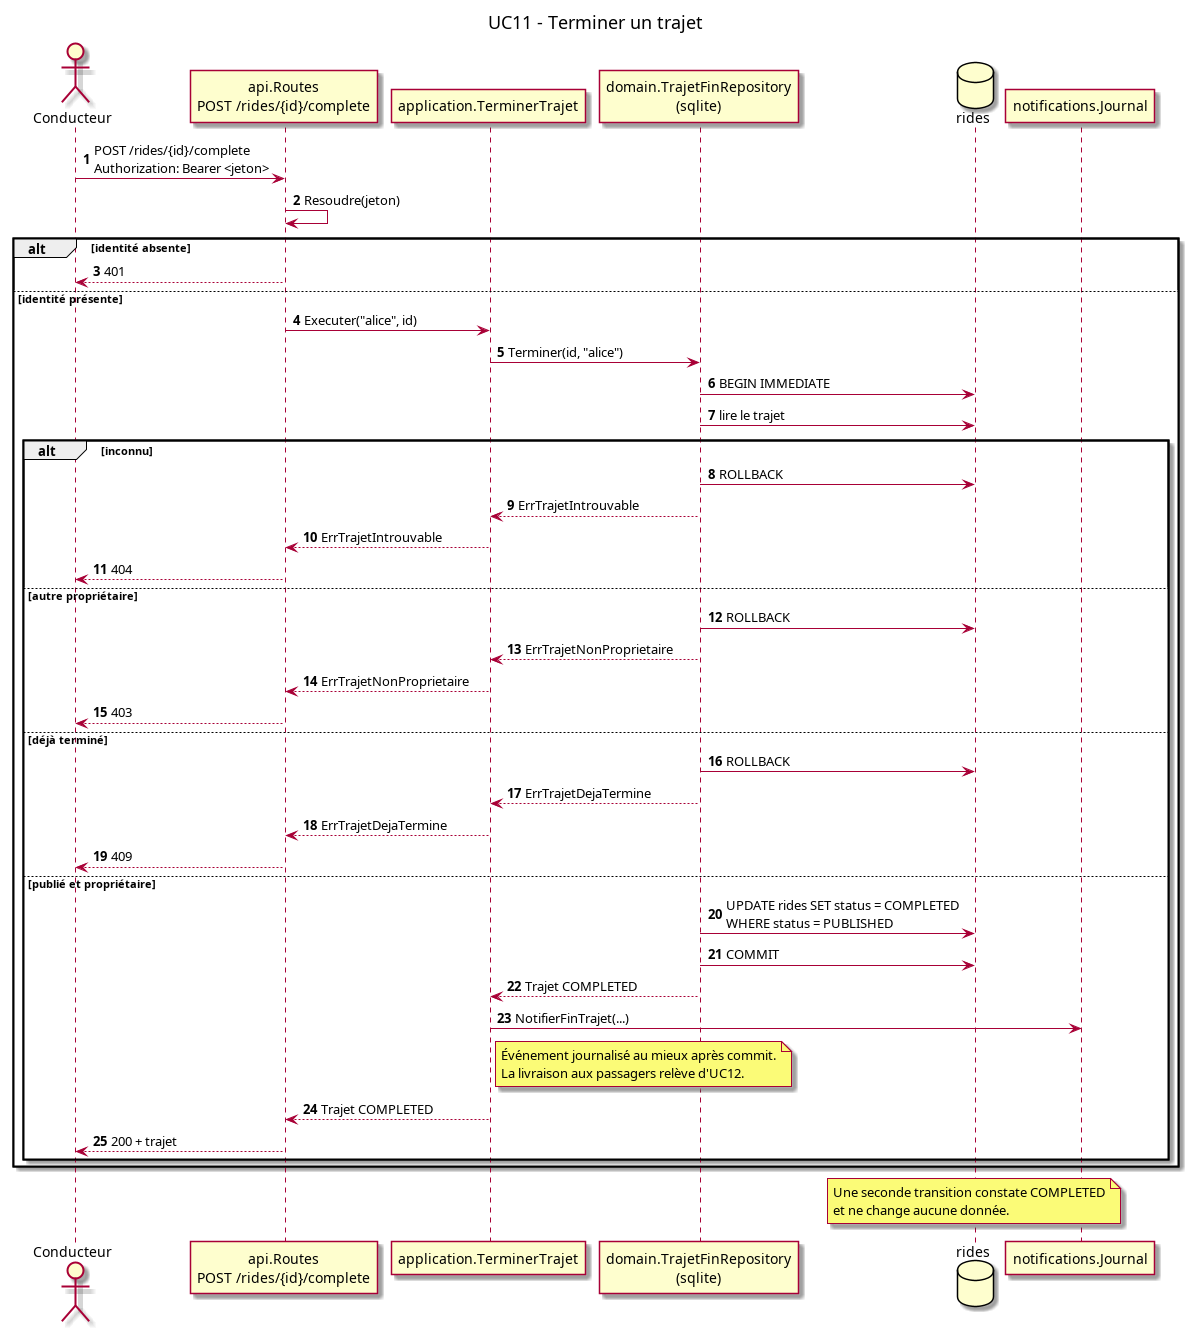
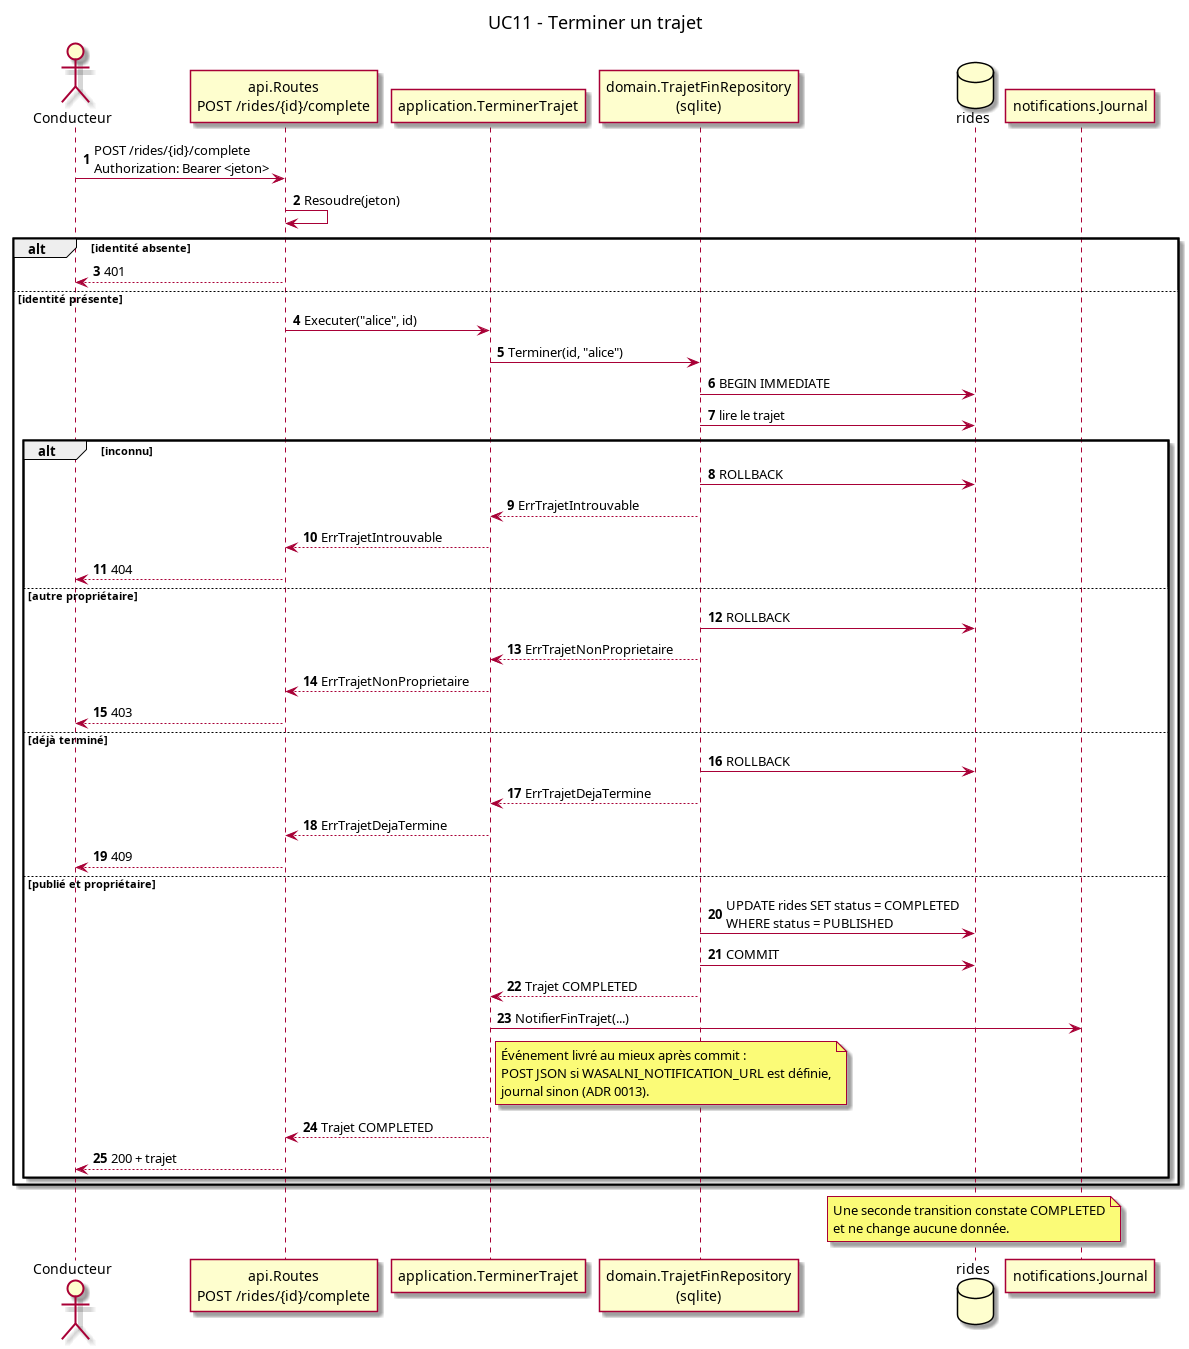
fix(docs): rendre réelle l'erreur de budget de pixels, corriger les restes d'UC12 (#62)
La table §11 documentait application.ErrImageTropGrande, qui n'existait
pas : le paquet photos rendait photos.ErrImageTropGrande et l'application
l'emballait dans ErrPhotoInvalide. L'erreur existe désormais vraiment,
posée par l'adaptateur de cmd/wasalni à la frontière des couches (aucun
import de l'infrastructure dans l'application), et l'emballage à deux %w
laisse les deux sentinelles reconnaissables. Un test le vérifie et le
statutHTTP la mappe en 400.

Cinq endroits affirmaient encore que la livraison des notifications
restait à faire : README, architecture §7 et §15, fiches UC1, UC5, UC9 et
UC11, séquences UC5 et UC11. Ils décrivent maintenant le webhook et son
repli sur le journal (ADR 0013).

diff --git a/internal/application/gerer_profil_test.go b/internal/application/gerer_profil_test.go
@@ -3,6 +3,7 @@ package application_test
 import (
 	"context"
 	"errors"
+	"fmt"
 	"testing"
 
 	"github.com/alaa-ilehi/wasalni/internal/application"
@@ -41,6 +42,10 @@ func (n *normaliseurFaux) Normaliser(photo string) (string, error) {
 	n.appels++
 	if photo == "corrompue" {
 		return "", errors.New("image illisible")
+	}
+	if photo == "trop-grande" {
+		// Même forme que l'adaptateur de cmd/wasalni : photos.ErrImageTropGrande traduite en erreur d'application.
+		return "", fmt.Errorf("%w : 30000 x 30000 pixels", application.ErrImageTropGrande)
 	}
 	return "png-normalisé", nil
 }
@@ -141,5 +146,20 @@ func TestConsulterProfilInconnu(t *testing.T) {
 	gerer, _, _ := nouveauCas(t)
 	if _, err := gerer.Consulter(context.Background(), "inconnu"); !errors.Is(err, domain.ErrProfilIntrouvable) {
 		t.Fatalf("erreur = %v, attendu ErrProfilIntrouvable", err)
+	}
+}
+
+// TestUnePhotoTropGrandeGardeSonErreurPropre : l'API répond 400 dans les deux cas, mais ErrImageTropGrande reste
+// reconnaissable derrière l'emballage ErrPhotoInvalide (deux %w).
+func TestUnePhotoTropGrandeGardeSonErreurPropre(t *testing.T) {
+	gerer, _, _ := nouveauCas(t)
+	_, _, err := gerer.Enregistrer(context.Background(), "alice", application.SaisieProfil{
+		Nom: "Alice", Age: 30, Photo: texte("trop-grande"),
+	})
+	if !errors.Is(err, application.ErrImageTropGrande) {
+		t.Fatalf("erreur = %v, attendu ErrImageTropGrande", err)
+	}
+	if !errors.Is(err, application.ErrPhotoInvalide) {
+		t.Fatalf("erreur = %v, attendu aussi ErrPhotoInvalide (400)", err)
 	}
 }

diff --git a/internal/application/gerer_profil.go b/internal/application/gerer_profil.go
@@ -17,6 +17,11 @@ var ErrIdentiteManquante = errors.New("identité manquante")
 // Elle traduit l'erreur du port de normalisation pour que l'interface n'ait pas à connaître l'infrastructure.
 var ErrPhotoInvalide = errors.New("photo invalide")
 
+// ErrImageTropGrande : la photo déclare plus de pixels que le budget (ADR 0008). Distincte d'ErrPhotoInvalide pour que
+// le client sache que le refus vient de la taille et non d'un fichier illisible ; l'adaptateur de `cmd/wasalni` la pose
+// en traduisant `photos.ErrImageTropGrande`, application n'importe pas l'infrastructure.
+var ErrImageTropGrande = errors.New("photo trop grande")
+
 // NormaliseurPhoto : port de traitement d'image (décodage, réduction, encodage).
 type NormaliseurPhoto interface {
 	Normaliser(photoBase64 string) (string, error)
@@ -74,7 +79,8 @@ func (g GererProfil) Enregistrer(ctx context.Context, identifiant string, saisie
 		} else {
 			normalisee, err := g.photos.Normaliser(*saisie.Photo)
 			if err != nil {
-				return domain.Profil{}, false, fmt.Errorf("%w : %v", ErrPhotoInvalide, err)
+				// Deux %w : l'API garde ErrPhotoInvalide (400) et peut distinguer ErrImageTropGrande.
+				return domain.Profil{}, false, fmt.Errorf("%w : %w", ErrPhotoInvalide, err)
 			}
 			profil.Photo = normalisee
 		}

diff --git a/cmd/wasalni/main.go b/cmd/wasalni/main.go
@@ -5,6 +5,7 @@ import (
 	"context"
 	"errors"
 	"flag"
+	"fmt"
 	"log/slog"
 	"net/http"
 	"os"
@@ -132,7 +133,13 @@ func (horlogeReelle) Maintenant() time.Time { return time.Now().UTC() }
 type normaliseurPhoto struct{}
 
 func (normaliseurPhoto) Normaliser(photoBase64 string) (string, error) {
-	return photos.Normaliser(photoBase64)
+	normalisee, err := photos.Normaliser(photoBase64)
+	// Le budget de pixels (ADR 0008) remonte sous une erreur d'application, sans que la couche applicative connaisse
+	// le paquet photos.
+	if errors.Is(err, photos.ErrImageTropGrande) {
+		return "", fmt.Errorf("%w : %v", application.ErrImageTropGrande, err)
+	}
+	return normalisee, err
 }
 
 func valeurEnv(cle, defaut string) string {

diff --git a/internal/api/http.go b/internal/api/http.go
@@ -45,6 +45,7 @@ func statutHTTP(err error) int {
 		errors.Is(err, domain.ErrTrajetInvalide),
 		errors.Is(err, domain.ErrConducteurNePeutPasReserver),
 		errors.Is(err, application.ErrPhotoInvalide),
+		errors.Is(err, application.ErrImageTropGrande),
 		errors.Is(err, application.ErrRechercheInvalide),
 		errors.Is(err, domain.ErrCurseurInvalide),
 		errors.Is(err, domain.ErrEvaluationInvalide):

diff --git a/docs/architecture.md b/docs/architecture.md
@@ -227,7 +227,7 @@ Source : [uml/uc3-sequence.puml](uml/uc3-sequence.puml). Le diagramme décrit le
 
 `DELETE /bookings/{id}` vérifie l'identité, le propriétaire, l'état `ACTIVE` et l'échéance `departure - X`. Le dépôt
 annule et rend la place dans la même transaction immédiate. L'événement d'annulation est journalisé au mieux après le
-commit ; l'adaptateur ne réalise pas la livraison aux parties, qui relève du système externe UC12 (ADR 0007).
+commit et livré par le notificateur (webhook si `WASALNI_NOTIFICATION_URL` est définie, journal sinon — ADR 0013).
 ![Séquence UC5](uml/uc5-sequence.png)
 
 Source : [uml/uc5-sequence.puml](uml/uc5-sequence.puml) et fiche [UC5](uc5-cancel-booking.md).
@@ -451,7 +451,7 @@ correspondance est la responsabilité de l'adaptateur (`internal/api/http.go`, A
 | `domain.ErrConducteurNePeutPasReserver` | cas d'usage `ReserverPlace` | 400 |
 | `domain.ErrTrajetInvalide` | domaine (`Trajet.Valider`, `Reservation.Valider`) | 400 |
 | `domain.ErrCurseurInvalide` | domaine, rendue par l'adaptateur SQLite sur un curseur `after` illisible ou mal formé | 400 |
-| `application.ErrImageTropGrande` | application (traduit `photos.ErrImageTropGrande` : budget de pixels dépassé) | 400 |
+| `application.ErrImageTropGrande` | adaptateur de `cmd/wasalni`, qui traduit `photos.ErrImageTropGrande` (budget de pixels) à la frontière des couches | 400 |
 | corps JSON invalide ou champ inconnu | adaptateur HTTP | 400 |
 | corps supérieur à 10 Mio | adaptateur HTTP (`http.MaxBytesReader`) | 413 |
 | toute autre erreur | infrastructure | 500, journalisée, message générique |
@@ -506,6 +506,9 @@ La table est unique : la fonction `statutHTTP` de `internal/api/http.go`. Le cor
   `bytes.Buffer` et vérifie, pour chacune des cinq notifications, le niveau, le message et les attributs, plus le repli
   de `NouveauJournal(nil)` ; des assertions de conformité lient `Journal` et `Webhook` aux quatre ports, donc un port
   modifié casse la compilation.
+- **Test du budget de pixels** : `gerer_profil_test.go` vérifie qu'une photo refusée pour sa taille garde
+  `application.ErrImageTropGrande` reconnaissable derrière `ErrPhotoInvalide` (emballage à deux `%w`), donc le client
+  apprend que le refus vient de la taille et non d'un fichier illisible.
 - **Tests du webhook** : `webhook_test.go` capture chaque `POST` sur un récepteur `httptest` (méthode, `Content-Type`,
   corps JSON exact pour les cinq événements), vérifie qu'un `500` et une cible injoignable rendent une erreur, et qu'une
   cible qui ne répond pas échoue au délai du client au lieu de bloquer.
@@ -576,8 +579,8 @@ curl -s -o /dev/null -w '%{http_code}\n' -X DELETE -H "Authorization: Bearer $JE
 - **Pic mémoire au plafond du budget.** Les 24 Mpx de `PixelsMax` bornent le pire cas mais l'autorisent : une image à ce
   plafond occupe environ 96 Mo en RGBA le temps de la réduction. À revoir si le service passe à plusieurs instances ou à
   un budget par lot.
-- **Onze UC couverts.** UC8, UC1, UC2, UC7, UC3, UC5, UC6, UC9, UC10, UC11 et UC13 ont du code et des tests ; UC12 reste
-  partiel (journal au lieu d'un système de notification).
+- **Douze UC couverts.** UC8, UC1, UC2, UC7, UC3, UC5, UC6, UC9, UC10, UC11, UC12 et UC13 ont du code et des tests ;
+  UC12 livre ses événements par webhook (journal en repli), sans garantie de livraison (ADR 0013).
 
 ## 16. Décisions (ADR)
 

diff --git a/README.md b/README.md
@@ -6,7 +6,7 @@
 **Stack :** Go + SQLite (bibliothèque standard et `modernc.org/sqlite`, sans cgo).
 **État actuel :** UC8 (profil), UC1 (publier), UC2 (rechercher), UC7 (détails), UC3 (réserver), UC5 (annuler), UC6
 (évaluer), UC9 (modifier/supprimer), UC10 (mes trajets et réservations), UC11 (terminer un trajet) et UC13 (s'authentifier)
-sont livrés ; UC12 reste partiel (journal au lieu d'un système de notification).
+sont livrés ; UC12 livre ses notifications par `POST` JSON vers `WASALNI_NOTIFICATION_URL`, avec le journal en repli.
 UC3 consomme une place par un décrément conditionnel dans la même transaction que l'écriture, sans surréservation possible
 (ADR 0004) ; `bookings.ride_id` référence `rides(id)`. UC6 enregistre une note par couple sur un trajet terminé et alimente
 `driver.rating` dans UC7 (ADR 0010) ; UC11 fournit maintenant la transition vers `COMPLETED`. UC13 remplace l'en-tête de

diff --git a/docs/uc5-cancel-booking.md b/docs/uc5-cancel-booking.md
@@ -13,7 +13,8 @@ Séquence : [uml/uc5-sequence.puml](uml/uc5-sequence.puml). Modèle de classes :
 3. Le dépôt vérifie propriété, état et échéance `now < departure - X` dans une transaction immédiate.
 4. Dans cette transaction, le dépôt passe la réservation à `CANCELLED`, incrémente `seats_available` une seule fois et valide les deux écritures ensemble.
 5. Après validation, le cas d'utilisation journalise l'événement au mieux et répond `204 No Content`. La livraison aux
-   deux parties dépend de l'adaptateur externe UC12, non présent dans cette implémentation.
+   deux parties passe par l'adaptateur de notification : `POST` JSON si `WASALNI_NOTIFICATION_URL` est définie, journal
+   sinon (ADR 0013).
 
 ## Scénarios alternatifs
 

diff --git a/docs/uc9-edit-ride.md b/docs/uc9-edit-ride.md
@@ -12,7 +12,7 @@ Le conducteur doit être propriétaire du trajet. Un trajet inconnu ou supprimé
 La suppression garde la ligne `rides` et les lignes `bookings` pour préserver les clés étrangères et l'historique
 (ADR 0012). Elle pose `deleted_at` et annule les réservations actives dans une transaction. L'insertion de nouvelles réservations est conditionnée à un trajet publié et non supprimé.
 
-Les notifications de modification/suppression sont journalisées après commit au mieux. Leur livraison effective est externe et relève d'UC12 (ADR 0007).
+Les notifications de modification/suppression partent après commit, au mieux : `POST` JSON vers le notificateur configuré, journal sinon (ADR 0007, ADR 0013).
 
 ## Séquence nominale
 

diff --git a/docs/uc11-complete-ride.md b/docs/uc11-complete-ride.md
@@ -27,5 +27,5 @@ Séquence : [uml/uc11-sequence.puml](uml/uc11-sequence.puml). Modèle de classes
 
 - La transition est définitive et irréversible; aucun statut de réservation n'est modifié.
 - Une comparaison conditionnelle et une transaction empêchent une seconde transition sous appels concurrents.
-- L'événement est journalisé après commit; la livraison aux passagers dépend du système externe UC12 (ADR 0007).
+- L'événement part après commit, au mieux : `POST` JSON vers le notificateur configuré, journal sinon (ADR 0007, ADR 0013).
 - Tests domaine/application/SQLite/HTTP couvrent propriété, état, idempotence négative, concurrence, codes HTTP et échec de notification.

diff --git a/docs/uc1-publish-ride.md b/docs/uc1-publish-ride.md
@@ -1,6 +1,6 @@
 # UC1 - Publier un trajet
 
-- **Acteur principal :** Conducteur. **Acteur secondaire :** Système de notification (UC12, prévu mais non branché sur la publication dans la version livrée).
+- **Acteur principal :** Conducteur. **Acteur secondaire :** Système de notification (UC12, livré par webhook depuis la publication).
 - **Préconditions :** l'utilisateur est identifié par un jeton de session (`Authorization: Bearer …`) ; il agit comme conducteur.
 - **Postconditions (succès) :** le trajet existe avec `PUBLISHED`, autant de places disponibles que de places totales, et le délai d'annulation `X` stocké sur le trajet ; le conducteur en est le propriétaire.
 
